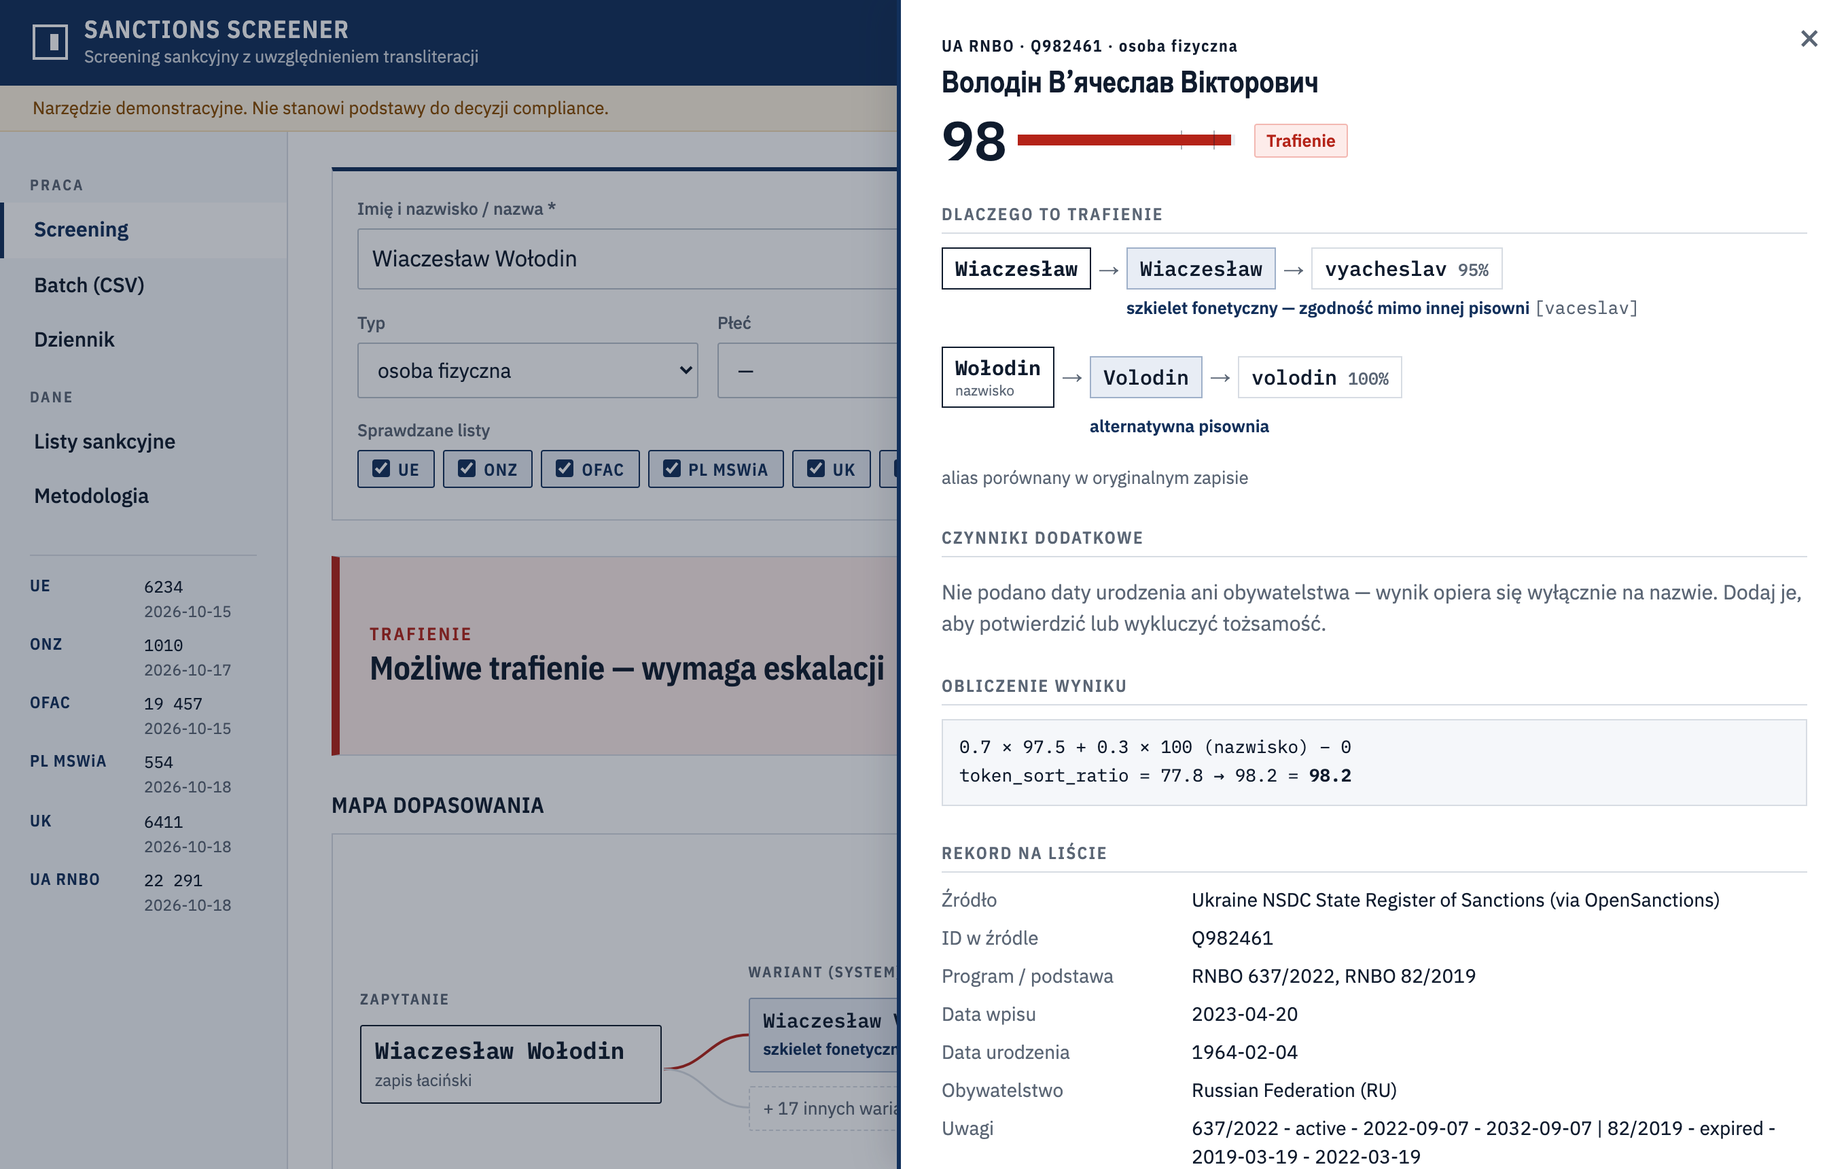
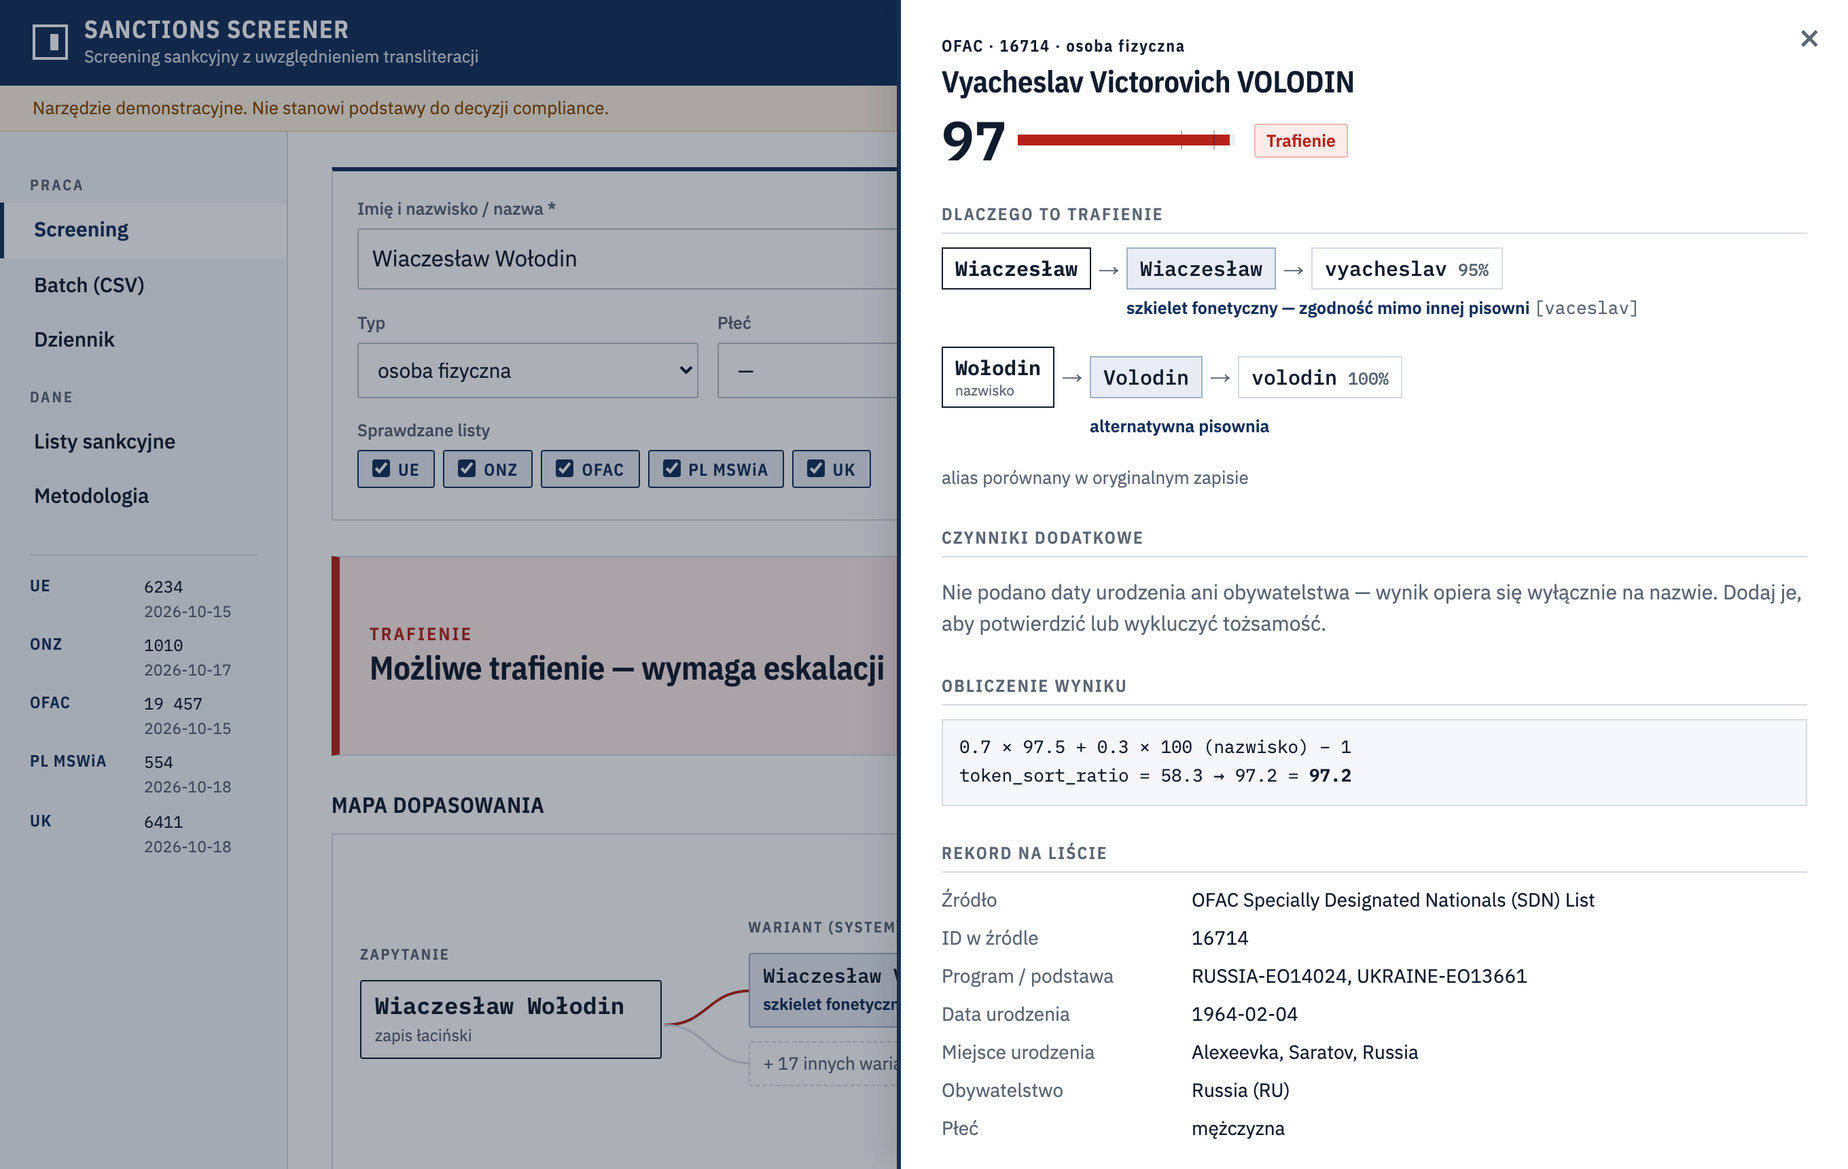
Remove the Ukrainian NSDC list
- Five lists now: EU, UN, OFAC, PL MSWiA, UK FCDO
- All five fit the Render free plan (server ~360 MB); render.yaml enables them
- README numbers, evaluation and screenshots refreshed

diff --git a/app/static/app.js b/app/static/app.js
@@ -12,7 +12,7 @@ const I18N = {
     f_name: "Imię i nazwisko / nazwa *", f_birth: "Data urodzenia", f_nat: "Obywatelstwo", f_type: "Typ",
     t_person: "osoba fizyczna", t_entity: "podmiot", t_any: "dowolny", check: "Sprawdź", checking: "Sprawdzanie…",
     intro_eyebrow: "Luka transliteracyjna", intro_h: "Jedno nazwisko, wiele zapisów",
-    intro_p: "Ta sama osoba figuruje w paszporcie, w prasie i na liście sankcyjnej pod różnymi zapisami łacińskimi. Narzędzie generuje warianty według oficjalnych systemów transliteracji i sprawdza każdy z nich w sześciu listach sankcyjnych: UE, ONZ, OFAC, polskiej MSWiA, brytyjskiej i ukraińskiej.",
+    intro_p: "Ta sama osoba figuruje w paszporcie, w prasie i na liście sankcyjnej pod różnymi zapisami łacińskimi. Narzędzie generuje warianty według oficjalnych systemów transliteracji i sprawdza każdy z nich w pięciu listach sankcyjnych: UE, ONZ, OFAC, polskiej MSWiA i brytyjskiej.",
     demo_h: "Scenariusze demonstracyjne", demo_exact: "Trafienie dokładne", demo_translit: "Tylko dzięki transliteracji",
     demo_translit_meta: "pisownia polska", demo_fp: "False positive", demo_by: "Cyrylica białoruska",
     map_h: "Mapa dopasowania", map_sub: "zapytanie → wariant, który dał trafienie → rekord na liście",
@@ -65,7 +65,7 @@ const I18N = {
     table_h: "Tablica transliteracji", table_sub: "generowana z kodu, który wykonuje wyszukiwanie · kilka wartości = zależność od pozycji litery",
     examples_h: "Przykłady", ctx_initial: "na początku słowa", ctx_middle: "po spółgłosce", ctx_after_vowel: "po samogłosce", ctx_before_soft: "przed е/и/ь",
     letter_not_in: "litera nie występuje w tym języku",
-    foot: "Dane: oficjalne listy UE (FSF), Rady Bezpieczeństwa ONZ i OFAC SDN; listy PL MSWiA, UK FCDO i UA RNBO przez OpenSanctions (CC BY-NC 4.0). Projekt demonstracyjny — nie zastępuje systemów komercyjnych (World-Check, Dow Jones).",
+    foot: "Dane: oficjalne listy UE (FSF), Rady Bezpieczeństwa ONZ i OFAC SDN; listy PL MSWiA i UK FCDO przez OpenSanctions (CC BY-NC 4.0). Projekt demonstracyjny — nie zastępuje systemów komercyjnych (World-Check, Dow Jones).",
     conflict_birth: "inna data urodzenia", conflict_nationality: "inne obywatelstwo", conflict_alias: "słaby alias",
     conflict_gender: "inna płeć", conflict_number: "inny numer w nazwie",
     f_gender: "Płeć", g_m: "mężczyzna", g_f: "kobieta", f_doc: "Nr dokumentu", g_inferred: "płeć wywnioskowana z nazwiska",
@@ -80,7 +80,7 @@ const I18N = {
     f_name: "Full name / entity name *", f_birth: "Date of birth", f_nat: "Nationality", f_type: "Type",
     t_person: "individual", t_entity: "entity", t_any: "any", check: "Screen", checking: "Screening…",
     intro_eyebrow: "The transliteration gap", intro_h: "One surname, many spellings",
-    intro_p: "The same person appears in a passport, in the press and on a sanctions list under different Latin spellings. The tool generates the variants using official transliteration systems and checks each one against six sanctions lists: EU, UN, OFAC, the Polish MSWiA list, the UK list and the Ukrainian NSDC register.",
+    intro_p: "The same person appears in a passport, in the press and on a sanctions list under different Latin spellings. The tool generates the variants using official transliteration systems and checks each one against five sanctions lists: EU, UN, OFAC, the Polish MSWiA list and the UK list.",
     demo_h: "Demo scenarios", demo_exact: "Exact match", demo_translit: "Found only through transliteration",
     demo_translit_meta: "Polish spelling", demo_fp: "False positive", demo_by: "Belarusian Cyrillic",
     map_h: "Match map", map_sub: "query → the variant that produced the hit → list record",
@@ -133,7 +133,7 @@ const I18N = {
     table_h: "Transliteration table", table_sub: "generated from the code that runs the search · several values = depends on the letter's position",
     examples_h: "Examples", ctx_initial: "word-initial", ctx_middle: "after a consonant", ctx_after_vowel: "after a vowel", ctx_before_soft: "before е/и/ь",
     letter_not_in: "letter not used in this language",
-    foot: "Data: official EU (FSF), UN Security Council and OFAC SDN lists; PL MSWiA, UK FCDO and UA NSDC lists via OpenSanctions (CC BY-NC 4.0). Demo project — not a replacement for commercial systems (World-Check, Dow Jones).",
+    foot: "Data: official EU (FSF), UN Security Council and OFAC SDN lists; PL MSWiA and UK FCDO lists via OpenSanctions (CC BY-NC 4.0). Demo project — not a replacement for commercial systems (World-Check, Dow Jones).",
     conflict_birth: "different date of birth", conflict_nationality: "different nationality", conflict_alias: "weak alias",
     conflict_gender: "different gender", conflict_number: "different number in name",
     f_gender: "Gender", g_m: "male", g_f: "female", f_doc: "Document no.", g_inferred: "gender inferred from the name",
@@ -149,9 +149,9 @@ const SYS = {
         BGN: "BGN/PCGN", POP: "common English", PL: "Polish (PWN)", DE: "German (Duden)", BY_PASS: "BY — passport",
         VAR: "phonetic variant", LATIN: "input spelling", LATIN_ALT: "alternative spelling", SKELETON: "phonetic skeleton", CYR: "original script (Cyrillic)" },
 };
-const LIST_LABEL = { pl: { EU: "UE", UN: "ONZ", OFAC: "OFAC", PL: "PL MSWiA", UK: "UK", UA: "UA RNBO" },
-                     en: { EU: "EU", UN: "UN", OFAC: "OFAC", PL: "PL MSWiA", UK: "UK", UA: "UA NSDC" } };
-const OPEN_SANCTIONS = ["PL", "UK", "UA"];
+const LIST_LABEL = { pl: { EU: "UE", UN: "ONZ", OFAC: "OFAC", PL: "PL MSWiA", UK: "UK" },
+                     en: { EU: "EU", UN: "UN", OFAC: "OFAC", PL: "PL MSWiA", UK: "UK" } };
+const OPEN_SANCTIONS = ["PL", "UK"];
 
 let lang = "pl";
 let last = null;          // last search response

diff --git a/app/report.py b/app/report.py
@@ -21,7 +21,7 @@ T = {
         "save": "Zapisz decyzję w dzienniku", "print": "Drukuj / zapisz jako PDF", "sign": "Podpis analityka",
         "prev": "Zarejestrowane decyzje", "person": "osoba fizyczna", "entity": "podmiot", "any": "dowolny",
         "match": "Trafienie", "review": "Do weryfikacji", "weak": "Słabe",
-        "disclaimer": "Narzędzie demonstracyjne. Nie stanowi podstawy do decyzji compliance. Dane: oficjalne listy UE, ONZ i OFAC; listy PL MSWiA, UK i UA przez OpenSanctions (CC BY-NC 4.0).",
+        "disclaimer": "Narzędzie demonstracyjne. Nie stanowi podstawy do decyzji compliance. Dane: oficjalne listy UE, ONZ i OFAC; listy PL MSWiA i UK przez OpenSanctions (CC BY-NC 4.0).",
         "saved": "Decyzja zapisana w dzienniku audytu.", "choose": "Wybierz decyzję.",
         "token": "Token zapytania", "variant": "Użyty wariant", "system": "System", "sim": "Podobieństwo",
         "factors": "Czynniki dodatkowe", "surname": "nazwisko", "rec": "Rekomendacja systemu", "gender": "Płeć", "doc": "Nr dokumentu", "inferred": "(wywnioskowana)",
@@ -42,7 +42,7 @@ T = {
         "freeze": "Freeze funds / hold transaction", "comment": "Comment / rationale", "save": "Save decision to audit log",
         "print": "Print / save as PDF", "sign": "Analyst signature", "prev": "Recorded decisions",
         "person": "individual", "entity": "entity", "any": "any", "match": "Possible match", "review": "Review",
-        "weak": "Weak", "disclaimer": "Demo tool. Not a basis for compliance decisions. Data: official EU, UN and OFAC lists; PL MSWiA, UK and UA lists via OpenSanctions (CC BY-NC 4.0).",
+        "weak": "Weak", "disclaimer": "Demo tool. Not a basis for compliance decisions. Data: official EU, UN and OFAC lists; PL MSWiA and UK lists via OpenSanctions (CC BY-NC 4.0).",
         "saved": "Decision saved to the audit log.", "choose": "Choose a decision.", "token": "Query token",
         "variant": "Variant used", "system": "System", "sim": "Similarity", "factors": "Additional factors",
         "surname": "surname", "rec": "System recommendation", "gender": "Gender", "doc": "Document no.", "inferred": "(inferred)",

diff --git a/app/sources/opensanctions.py b/app/sources/opensanctions.py
@@ -1,7 +1,7 @@
 """Parser for OpenSanctions `targets.simple.csv` exports.
 
 Used for national lists that have no convenient official machine-readable file:
-the Polish MSWiA list, the UK FCDO list and the Ukrainian NSDC register.
+the Polish MSWiA list and the UK FCDO list.
 OpenSanctions data is licensed CC BY-NC 4.0 — fine for this non-commercial demo.
 """
 import csv
@@ -28,9 +28,6 @@ def _program(sanction: str, source: str) -> str:
     s = sanction.strip()
     if source == "PL":
         return "MSWiA"
-    if source == "UA":
-        m = re.match(r"^(\d+/\d{4})", s)                 # decree number, e.g. 813/2023
-        return f"RNBO {m.group(1)}" if m else "RNBO"
     head = s.split(" - ")[0].strip('" ')
     return head[:80]
 

diff --git a/app/config.py b/app/config.py
@@ -39,13 +39,6 @@ SOURCES = {
         "info_url": "https://www.gov.uk/government/publications/the-uk-sanctions-list",
         "provider": "opensanctions",
     },
-    "UA": {
-        "label": "UA",
-        "name": "Ukraine NSDC State Register of Sanctions (via OpenSanctions)",
-        "url": "https://data.opensanctions.org/datasets/latest/ua_nsdc_sanctions/targets.simple.csv",
-        "info_url": "https://drs.nsdc.gov.ua/",
-        "provider": "opensanctions",
-    },
 }
 
 # Lists that can be switched off, e.g. ENABLED_SOURCES=EU,UN,OFAC,PL

diff --git a/app/update.py b/app/update.py
@@ -17,7 +17,7 @@ from .sources import eu, ofac, opensanctions, un
 from .text import detect_script
 
 PARSERS = {"EU": eu.parse, "UN": un.parse, "OFAC": ofac.parse,
-           "PL": opensanctions.parse_for("PL"), "UK": opensanctions.parse_for("UK"), "UA": opensanctions.parse_for("UA")}
+           "PL": opensanctions.parse_for("PL"), "UK": opensanctions.parse_for("UK")}
 
 
 def raw_path(source: str) -> Path:

diff --git a/README.md b/README.md
@@ -4,7 +4,7 @@
 ![Python 3.12](https://img.shields.io/badge/python-3.12-12305b)
 ![License: MIT](https://img.shields.io/badge/license-MIT-12305b)
 
-Screens a person or company name against six sanctions lists: the official **EU**, **UN** and **OFAC** lists, plus the **Polish MSWiA** list, the **UK FCDO** list and the **Ukrainian NSDC** register. It handles the main source of missed hits and false alerts for clients from Ukraine, Russia and Belarus: **one name can be spelled many different ways in Latin script.**
+Screens a person or company name against five sanctions lists: the official **EU**, **UN** and **OFAC** lists, plus the **Polish MSWiA** list and the **UK FCDO** list. It handles the main source of missed hits and false alerts for clients from Ukraine, Russia and Belarus: **one name can be spelled many different ways in Latin script.**
 
 ![Demo](docs/demo.gif)
 
@@ -14,7 +14,7 @@ Screens a person or company name against six sanctions lists: the official **EU*
 
 A screener that only compares strings sees a different name each time. It either misses the hit or, with a loose threshold, raises alerts on half the customer base.
 
-This matters in Poland in particular. Polish documents and press use **Polish transcription** (*Ławrow*, *Szojgu*, *Kadyrow*, *Wołodin*), while the lists use English spellings. In the measurements below, a naive fuzzy matcher scores *Wiaczesław Wołodin* at **61**: below any reasonable alert threshold, so the hit is missed. Its best "match" is a company called *Citadel Holding*. This tool scores it at **98** against *Vyacheslav VOLODIN* (UA, OFAC, EU, UK).
+This matters in Poland in particular. Polish documents and press use **Polish transcription** (*Ławrow*, *Szojgu*, *Kadyrow*, *Wołodin*), while the lists use English spellings. In the measurements below, a naive fuzzy matcher scores *Wiaczesław Wołodin* at **61**: below any reasonable alert threshold, so the hit is missed. Its best "match" is a company called *Citadel Holding*. This tool scores it at **97** against *Vyacheslav VOLODIN* (OFAC, EU, UK).
 
 ## What it does
 
@@ -29,7 +29,7 @@ This matters in Poland in particular. Polish documents and press use **Polish tr
    - date of birth;
    - nationality;
    - gender (entered, or inferred from Slavic patronymic and surname endings);
-   - document number: passport, national ID, tax or registration number (28k identifiers parsed from the three lists);
+   - document number: passport, national ID, tax or registration number (31k identifiers parsed from the lists);
    - differing numbers in names (*SEA STAR 7* vs *SEA STAR 8*).
 
 | Score | Status |
@@ -59,22 +59,22 @@ Other features:
 
 ## Results on real list entries
 
-From `python -m scripts.evaluate`. The baseline is a naive screener: unidecode, then the best rapidfuzz `token_sort_ratio` over all ~190k aliases of the six lists.
+From `python -m scripts.evaluate`. The baseline is a naive screener: unidecode, then the best rapidfuzz `token_sort_ratio` over all ~99k aliases of the five lists.
 
 | Query | This tool | Baseline | Hit |
 |---|---:|---:|---|
 | Евгений Пригожин, 1961 | **100** | 91 | Yevgeniy Viktorovich PRIGOZHIN (EU, OFAC) |
-| Wiaczesław Wołodin | **98** | 61 | Vyacheslav VOLODIN (UA, OFAC, EU, UK) |
+| Wiaczesław Wołodin | **97** | 61 | Vyacheslav VOLODIN (OFAC, EU, UK) |
 | Ramzan Kadyrow | **99** | 69 | Ramzan Akhmadovitch KADYROV (EU) |
-| Aleksiej Miller | **100** | 90 | Alexey Borisovich MILLER (UK, OFAC) |
-| Ołeksandr Chodakowski | **96** | 74 | Aleksandr KHODAKOVSKII (EU) |
+| Aleksiej Miller | **100** | 79 | Alexey Borisovich MILLER (UK, OFAC) |
+| Ołeksandr Chodakowski | **96** | 72 | Aleksandr KHODAKOVSKII (EU) |
 | Ołeh Cariow | **100** | 73 | Oleg Tsariov (EU) |
 | Siergiej Ławrow | **100** | 76 | Sergei Viktorovich LAVROV (OFAC, EU) |
-| Аляксандр Лукашэнка | **100** | 100 | LUKASHENKO (UA, UK, EU, OFAC) |
-| Юрий Ковальчук, 1984, UA | 84 *review* | 100 | Yuriy KOVALCHUK (b. 1951): the baseline cannot see the date-of-birth conflict |
+| Аляксандр Лукашэнка | **99** | 83 | LUKASHENKO (UK, EU, OFAC) |
+| Юрий Ковальчук, 1984, UA | 84 *review* | 83 | Yuriy KOVALCHUK (b. 1951): the date-of-birth conflict is flagged as a false-positive argument |
 | Jan Kowalski, 1985, PL | no alert | – | – |
 
-A search over all six lists (~243k name forms) takes 0.05–0.5 s on a laptop. The index is cached on disk, so a restart takes about 2 s. The full output is in [`docs/evaluation.txt`](docs/evaluation.txt).
+A search over all five lists (~107k name forms) takes 0.05–0.3 s on a laptop. The index is cached on disk, so a restart takes about 2 s. The full output is in [`docs/evaluation.txt`](docs/evaluation.txt).
 
 ## Run locally
 
@@ -104,15 +104,14 @@ The Telegram bot (optional) runs with `TELEGRAM_BOT_TOKEN=... .venv/bin/python -
 | OFAC SDN List | `sanctionslistservice.ofac.treas.gov/.../SDN.XML` | XML |
 | Polish MSWiA sanctions list | OpenSanctions `pl_mswia_sanctions` | CSV |
 | UK FCDO Sanctions List | OpenSanctions `gb_fcdo_sanctions` | CSV |
-| Ukraine NSDC State Register of Sanctions | OpenSanctions `ua_nsdc_sanctions` | CSV |
 
-The three national lists come through [OpenSanctions](https://www.opensanctions.org/), because their publishers offer no convenient machine-readable file. That data is licensed **CC BY-NC 4.0**, which permits only non-commercial use such as this demo. Any list can be switched off with `ENABLED_SOURCES=EU,UN,OFAC`.
+The two national lists come through [OpenSanctions](https://www.opensanctions.org/), because their publishers offer no convenient machine-readable file. That data is licensed **CC BY-NC 4.0**, which permits only non-commercial use such as this demo. Any list can be switched off with `ENABLED_SOURCES=EU,UN,OFAC`.
 
-`python -m app.update` downloads the files again and replaces the data. About 28k document numbers and gender data are parsed along with the names. The UI shows each list's publication date and record count. All aliases are stored in every script that appears in the list (Latin, Cyrillic, Arabic, Greek…). Schema: `app/db.py`.
+`python -m app.update` downloads the files again and replaces the data. About 31k document numbers and gender data are parsed along with the names. The UI shows each list's publication date and record count. All aliases are stored in every script that appears in the list (Latin, Cyrillic, Arabic, Greek…). Schema: `app/db.py`.
 
 ## How matching works
 
-- **Index.** Every alias becomes a tuple of token ids into a shared vocabulary of ~120k distinct tokens. Non-Latin aliases are also stored in transliterated form. A parallel vocabulary holds phonetic skeletons.
+- **Index.** Every alias becomes a tuple of token ids into a shared vocabulary of ~63k distinct tokens. Non-Latin aliases are also stored in transliterated form. A parallel vocabulary holds phonetic skeletons.
 - **Retrieval.** For each query token, *all* its variants are compared against the whole vocabulary in a single vectorised `rapidfuzz.process.cdist` call. Records containing a token with similarity ≥ 70 become candidates. There is no full scan.
 - **Scoring:**
   - Query tokens are aligned to alias tokens in the best order, so name order doesn't matter.
@@ -158,7 +157,7 @@ I reviewed two open-source screening engines and adopted their best scoring idea
 
 | Project | What it is | Adopted here |
 |---|---|---|
-| [OpenSanctions yente / nomenklatura](https://www.opensanctions.org/matcher) | Rule-based *logic-v2* matcher: name score plus supporting and contradicting features; aggregated sanctions datasets | **the data feed** for the PL, UK and UA lists; gender-mismatch penalty, number-mismatch penalty, identifier match as strong evidence, a higher weight on the family name |
+| [OpenSanctions yente / nomenklatura](https://www.opensanctions.org/matcher) | Rule-based *logic-v2* matcher: name score plus supporting and contradicting features; aggregated sanctions datasets | **the data feed** for the PL and UK lists; gender-mismatch penalty, number-mismatch penalty, identifier match as strong evidence, a higher weight on the family name |
 | [moov-io/watchman](https://github.com/moov-io/watchman) | OFAC/EU/UN screening server in Go | search by document number, `min_score`/`limit` API parameters, periodic background list refresh, per-field debug output |
 
 What this project adds that both lack is the **explicit East Slavic transliteration layer**:
@@ -173,7 +172,7 @@ General engines treat cross-script matching as a known weak spot. OpenSanctions 
 
 [![Deploy to Render](https://render.com/images/deploy-to-render-button.svg)](https://render.com/deploy?repo=https://github.com/Artemkits/sanctions-screener)
 
-**Render (free, no credit card).** Sign in to [render.com](https://render.com) with GitHub, then go to **New → Blueprint** and pick this repository. `render.yaml` configures everything else. The free plan has 512 MB RAM and sleeps after 15 minutes idle, so it runs four lists: EU, UN, OFAC and PL MSWiA. The first request after a sleep takes about a minute.
+**Render (free, no credit card).** Sign in to [render.com](https://render.com) with GitHub, then go to **New → Blueprint** and pick this repository. `render.yaml` configures everything else. The free plan (512 MB RAM) fits all five lists; the server uses about 360 MB. It sleeps after 15 minutes idle, and the first request after a sleep takes about a minute.
 
 **Any Linux server** (Ubuntu 22.04+ / Debian 12+, about 1 GB RAM):
 
@@ -195,7 +194,7 @@ Hugging Face Spaces also works with the same `Dockerfile` (`scripts/deploy_hf.sh
 
 ## Limitations
 
-- **This is a demo, not a compliance system.** It does not replace commercial screening solutions (World-Check, Dow Jones, LexisNexis). It covers six sanctions lists, but has no PEP data and no adverse media.
+- **This is a demo, not a compliance system.** It does not replace commercial screening solutions (World-Check, Dow Jones, LexisNexis). It covers five sanctions lists, but has no PEP data and no adverse media.
 - The transliteration rules cover Ukrainian, Russian and Belarusian names. Arabic and other scripts are matched only through their Latin aliases or a generic transliteration.
 - Scoring weights and thresholds are hand-tuned on a small sample. They are not calibrated on labelled alert data.
 - The audit log is a local SQLite table with no authentication. On free hosting it is reset whenever the container restarts.
@@ -204,4 +203,4 @@ Hugging Face Spaces also works with the same `Dockerfile` (`scripts/deploy_hf.sh
 
 ## License
 
-MIT. Sanctions data belongs to the respective publishers: European Commission, United Nations, U.S. Treasury, MSWiA, FCDO and NSDC of Ukraine. The PL, UK and UA lists are delivered by OpenSanctions under CC BY-NC 4.0.
+MIT. Sanctions data belongs to the respective publishers: European Commission, United Nations, U.S. Treasury, MSWiA and FCDO. The PL and UK lists are delivered by OpenSanctions under CC BY-NC 4.0.
